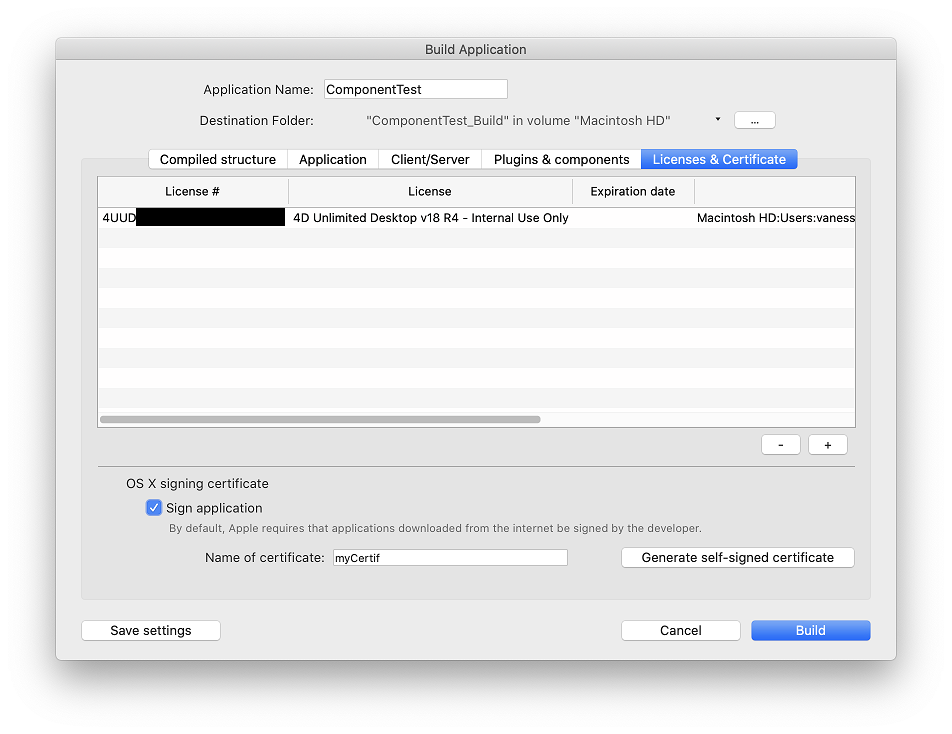
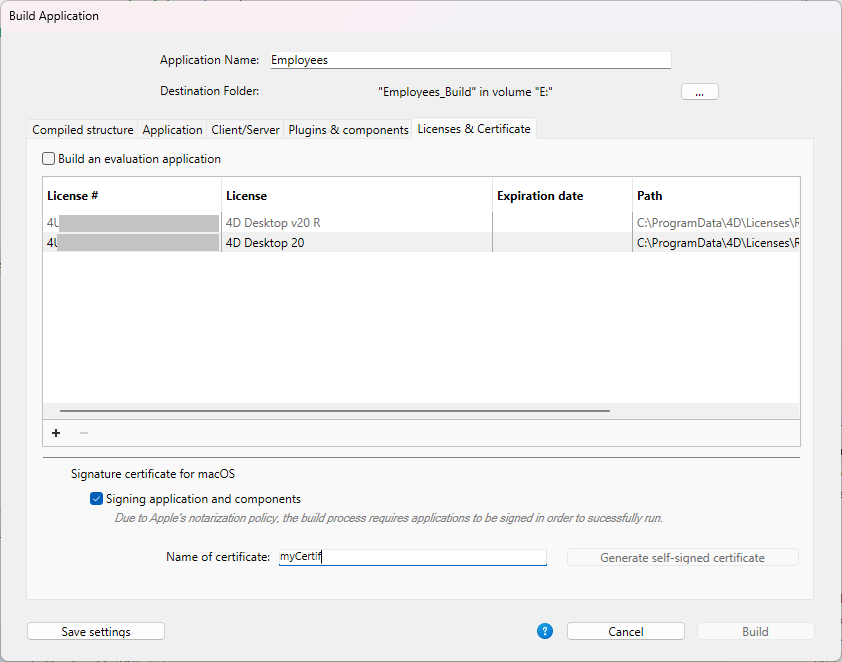
first draft

diff --git a/docs/Desktop/building.md b/docs/Desktop/building.md
@@ -137,7 +137,7 @@ It is possible to [automate the update of merged single-user applications](#auto
 
 :::
 
-#### 4D Volume Desktop Location
+### 4D Volume Desktop Location
 
 In order to build a stand-alone application, you must first designate the folder containing the 4D Volume Desktop file:
 
@@ -150,7 +150,7 @@ Once the folder is selected, its complete pathname is displayed and, if it actua
 
 > The 4D Volume Desktop version number must match the 4D Developer Edition version number. For example, if you use 4D 20, you must select a 4D Volume Desktop 20.
 
-#### Data linking mode
+### Data linking mode
 
 This option lets you choose the linking mode between the merged application and the local data file. Two data linking modes are available:
 
@@ -160,7 +160,7 @@ This option lets you choose the linking mode between the merged application and 
 
 For more information about the data linking mode, refer to the [Last data file opened](#last-data-file-opened) section.
 
-#### Generated files  
+### Generated files  
 
 When you click on the **Build** button, 4D automatically creates a **Final Application** folder in the specified **Destination Folder**. Inside the Final Application folder is a subfolder with the name of the specified application in it.
 
@@ -203,7 +203,7 @@ Items must be installed:
 * **on macOS**: next to the *MyProject.app* software package.
 
 
-#### About licenses
+### About licenses
 
 A stand-alone application requires a deployment license. It can be embedded at build step by the developer or entered at first launch by the end-user, as described in the following table:
 
@@ -213,7 +213,11 @@ A stand-alone application requires a deployment license. It can be embedded at b
 |*4D Unlimited Desktop*|**Discontinued** - Embedded custom license |[Licenses page](#licenses) of the Build application dialog|
 |*4D Desktop*|Per-user license, allowing them to use stand-alone 4D applications|[First activation](../Admin/licenses.md#first-activation) dialog box on the user's machine|
 
+:::note
 
+You can also build an [evaluation application](#evaluation-application), in which case a limited term deployment license is automatically provided to the user at startup.  
+
+:::
 
 ## Client/Server page
 
@@ -511,29 +515,50 @@ The following optional modules can be deselected:
 
 The Licences & Certificate page can be used to:
 
-* designate the license number(s) that you want to integrate into your single-user [stand-alone application](#application-page),
+* designate the license(s) that you want to integrate into your [stand-alone](#application-page) or [client-server](#clientserver-page) application,
 * sign the application by means of a certificate in macOS.
 
 ![](../assets/en/Admin/buildappCertif.png)
 
 ### Licenses
 
-This tab displays the list of available [deployment licenses that you can embed](#about-licenses) into your application. By default, the list is empty.
+This tab displays the [Build an evaluation application](#build-an-evaluation-application) option and the list of available [deployment licenses that you can embed](#about-licenses) into your application. By default, the list is empty. 
 
-:::info
+You can use this tab to build:
 
-If you keep the list empty, you build a stand-alone application without embedded deployment license. In this case, the end-user will have to purchase and enter a per-user *4D Desktop* license. If you integrate a deployment license, the user will not have to enter or use their own license number at application startup. For more information, see the [**About licenses**](#about-licenses) paragraph.
+- an evaluation application,
+- a licensed stand-alone application without embedded license (the user has to have a per-user license),
+- a licensed application with embedded license(s). 
+
+#### Build an evaluation application
+
+Check this option to create an evaluation version of your application. 
+
+An evaluation application allows the end-user to run a full-featured version of your stand-alone or server application on their machine for a limited period of time, starting at first launch. At the end of the evaluation period, the application can no longer be used. An application can only be evaluated once on the same machine.
+
+:::note
+
+An internet connection is required on the user machine at the first launch of the evaluation application. 
 
 :::
 
-Your current *4D Developer Professional* license is automatically associated with each deployment license to be used in the application built. You can add another 4D Developer Professional number and its associated licenses.
+As soon as the "Build evaluation application" option is enabled, deployment licenses are ignored. 
 
 
-To remove or add a license, use the **[+]** and **[-]** buttons at the bottom of the window.
+#### Build a stand-alone licensed application without embedded license
 
-When you click on the \[+] button, an open file dialog box appears displaying by default the contents of the *Licenses* folder of your machine. For more information about the location of this folder, refer to the [Get 4D folder](../commands-legacy/get-4d-folder.md) command.
+To build a stand-alone application without embedded deployment license, just keep the license list empty and make sure the "Build an evaluation application" option is unchecked. 
 
-You must designate the files that contain your Developer license as well as those containing your deployment licenses. These files were generated or updated when the *4D Developer Professional* license and the deployment licenses were purchased.
+In this case, the end-user will have to purchase and enter a per-user *4D Desktop* license. If you integrate a deployment license, the user will not have to enter or use their own license number at application startup. For more information, see the [**About licenses**](#about-licenses) paragraph.
+
+#### Build a licensed application with embedded license(s)
+
+This option allows you to build a ready-to-use application (stand-alone or client-server), in which necessary licenses are already embedded. 
+
+You must designate the files that contain your deployment licenses. These files were generated or updated when the *4D Developer Professional* license and the deployment licenses were purchased. Your current *4D Developer Professional* license is automatically associated with each deployment license to be used in the application built. You can add another 4D Developer Professional number and its associated licenses.
+
+To remove or add a license, use the **[+]** and **[-]** buttons at the bottom of the window. When you click on the \[+] button, an open file dialog box appears displaying by default the contents of the *Licenses* folder of your machine. For more information about the location of this folder, refer to the [Get 4D folder](../commands-legacy/get-4d-folder.md) command.
+
 
 Once you have selected a file, the list will indicate the characteristics of the license that it contains.
 
